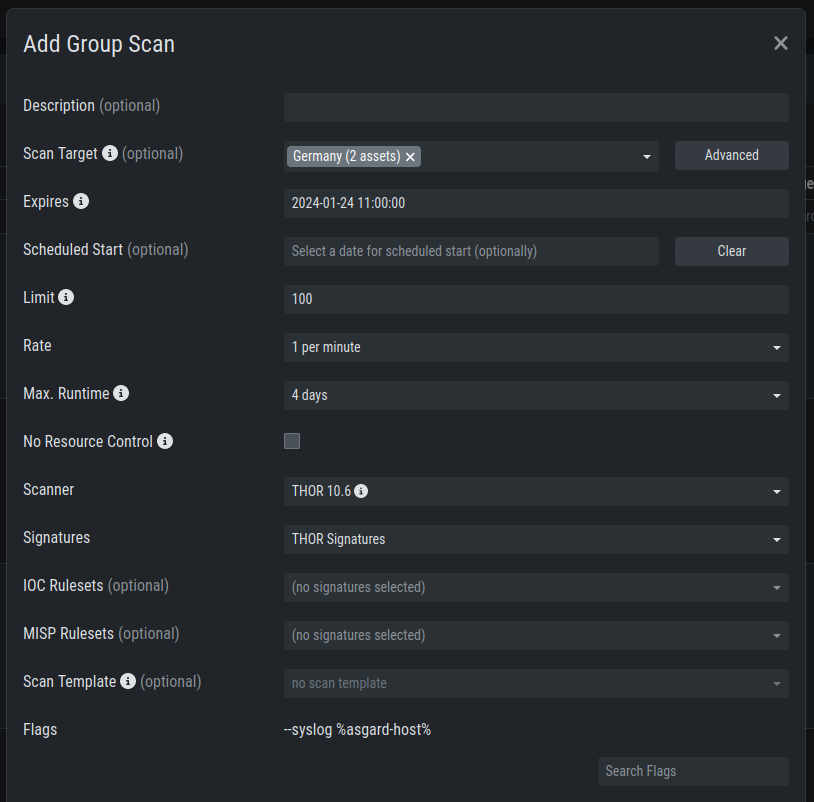
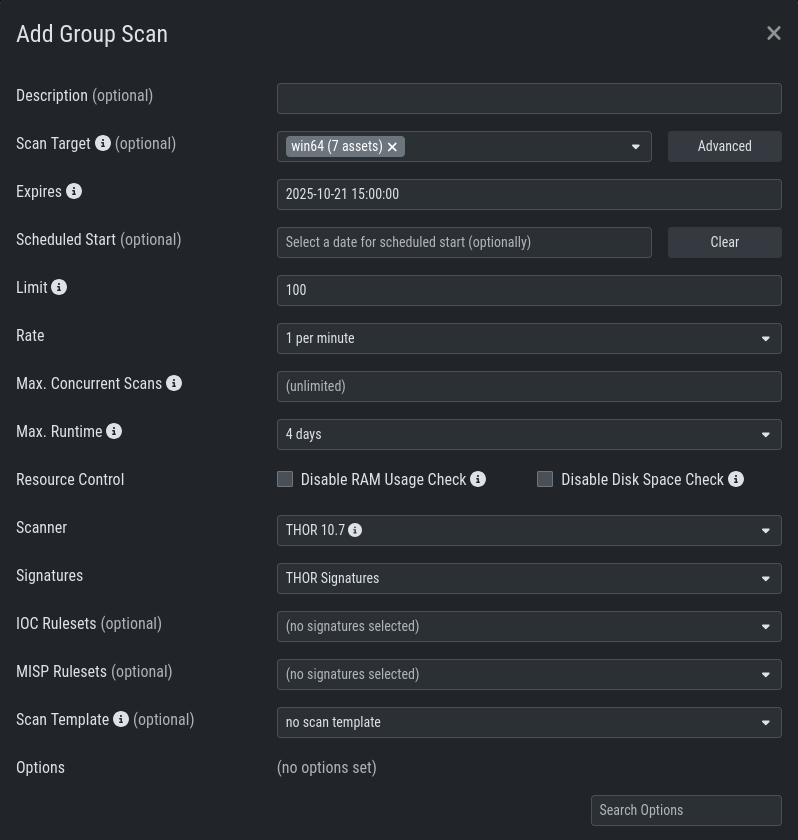
chore: add new options to the group scan creation table

diff --git a/administration/group-scan.rst b/administration/group-scan.rst
@@ -4,9 +4,10 @@ Scan a Group of Systems
 =======================
 
 A group scan is a scan task which is assigned to one or
-more asset **condition**. Those conditions can either be labels
-or the ASGARD Search Query. This is meant to be used if you want to
-scan a large group of assets with one scan configuration.
+more asset. You define conditions, which can either be labels
+or the ASGARD Search Query, to specify which assets should be
+scanned. Group scans are used to scan multiple assets with the
+same settings/configuration.
 
 Create Group Scans
 ~~~~~~~~~~~~~~~~~~
@@ -20,38 +21,47 @@ tab. Click the ``Add Group Scan`` button in the upper right corner.
    Scan Control – Create Group Scan
 
 As with the single scans, various parameters can be set. Aside from the already
-mentioned parameters, the following parameters can be set:
+mentioned parameters, you can also configure the following:
 
 .. list-table::
    :header-rows: 1
-   :widths: 20, 80
+   :widths: 25 75
 
    * - Parameter
      - Value
    * - **Description**
-     - Freely selectable name for the group scan.
+     - Freely selectable and optional name for the group scan
    * - **Scan Target**
-     - Here you can define which assets will be assigned the group scan.
+     - Define which assets should be scanned with this group scan.
        You can either use the ``Simple`` target option, which uses labels,
        or you can use the ``Advanced`` target options, which makes use of
        labels or the ASGARD Search Query. Leaving this option empty will scan all assets.
-   * - **Limit**
-     - ASGARD will not send additional scans to the agents when the client
-       limit is reached. Therefore you need to set a limit higher than the
-       number of hosts you want to scan or enter ``0`` for no limit. If
-       you are using MASTER ASGARD, this limit is applied on each single selected ASGARD.
-   * - **Rate**
-     - The number of scans per minute that are issued by ASGARD. This is
-       where the network load can be controlled. Additionally, it is recommended
-       to use this parameter in virtualized and oversubscribed environments in
-       order to limit the number of parallel scans on your endpoints.
    * - **Expires**
      - After this time frame, no scan orders will be issued to the connected agents. 
    * - **Scheduled Start**
      - Select a date for a scheduled start of the scan.
+   * - **Limit**
+     - This specifies the maximum scans this group scan is assigning. Once the
+       limit is reached, no more scans will be issued. Therefore you need to set
+       a limit higher than the number of hosts you want to scan or enter ``0`` for
+       no limit. If you are using MASTER ASGARD, this limit is applied on each single
+       selected ASGARD.
+   * - **Rate**
+     - The rate at which new scans are being issued by the ASGARD. You can control
+       network load with this option, since a scan also means that the asset needs to
+       download THOR from the ASGARD. We recommend to use this parameter in virtualized
+       and oversubscribed environments in order to limit the number of parallel scans
+       on your endpoints.
+   * - **Max. Concurrent Scans**
+     - Limits the number of concurrent scans running at once. When the limit is reached,
+       no new scans will be started until one of the running scans is completed or failed.
+   * - **Max. Runtime**
+     - A started scan is cancelled after exceeding the maximum runtime. This is used
+       to stop any hanging/unresponsive scans.
 
-After the group scan has been ``Saved`` or ``Saved and Started``, you will
-automatically be forwarded to the list of grouped scans. 
+Once you are done configuring your group scan, you can either **Add the Group Scan** or
+**Add and Activate the Group Scan**. Only adding the group scan without activating it
+will "park" it until it has been activated - at which point scans will be issued.
 
 List of all Group Scans
 ~~~~~~~~~~~~~~~~~~~~~~~
